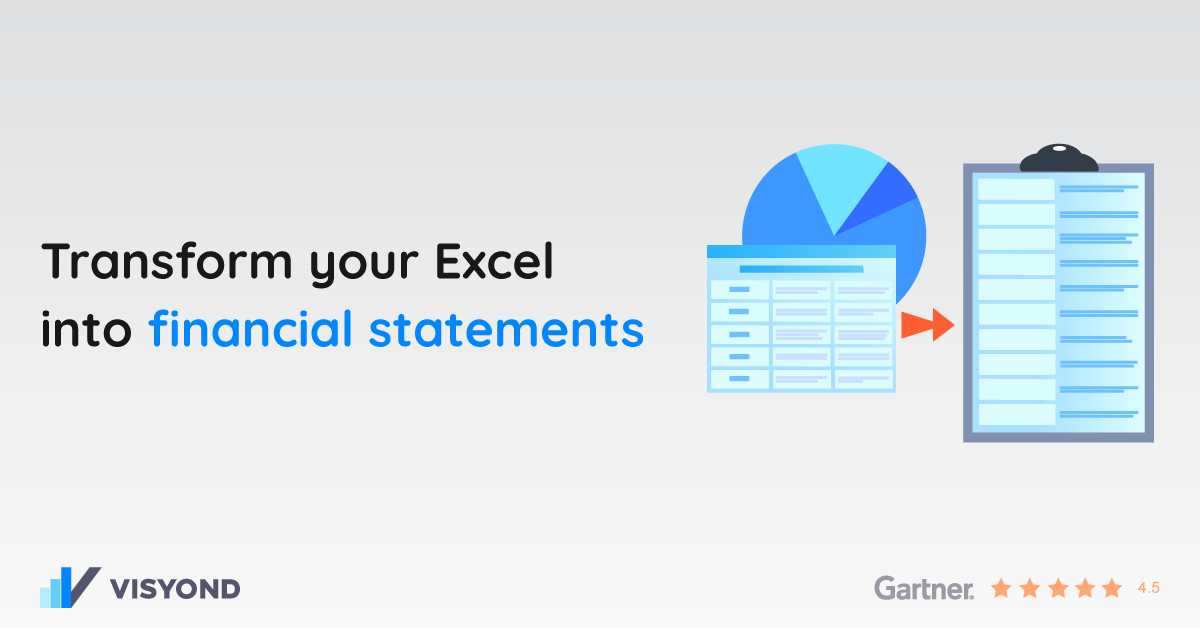
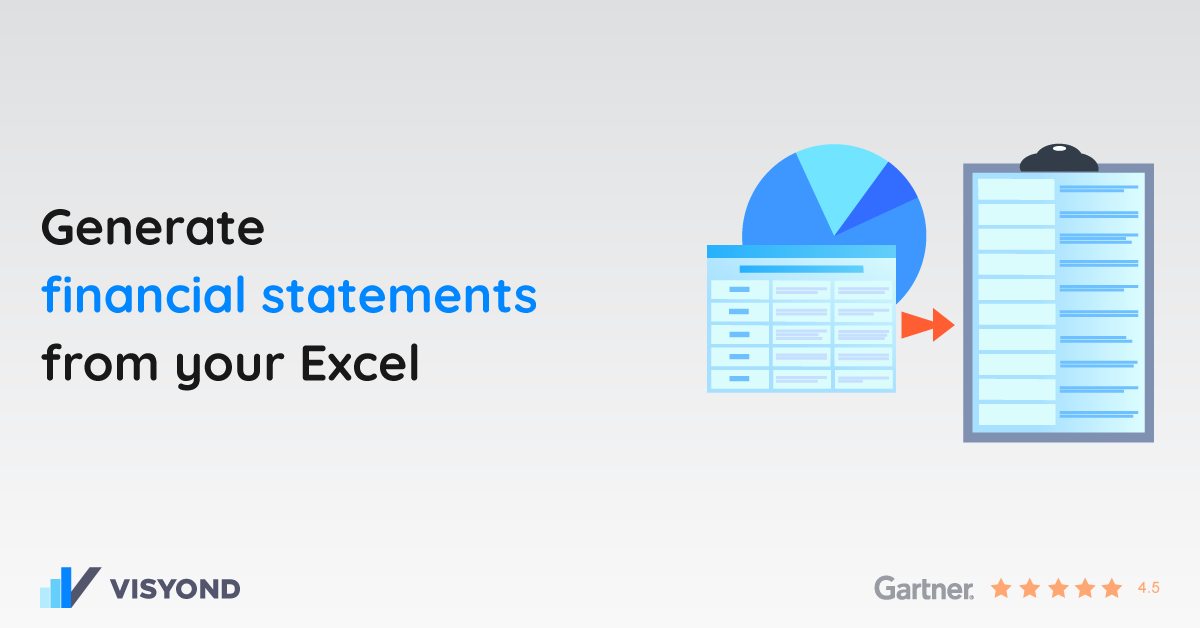
use cases / solutions upd after review

Changed region(s): [[0.0308, 0.3328, 0.555, 0.6354]]

diff --git a/site/layouts/partials/utility/scripts-footer.html b/site/layouts/partials/utility/scripts-footer.html
@@ -1,7 +1,7 @@
 <script src="https://cdnjs.cloudflare.com/ajax/libs/jquery/3.2.1/jquery.min.js"></script>
 <script src="https://cdnjs.cloudflare.com/ajax/libs/slick-carousel/1.8.1/slick.min.js"></script>
-<script src="/plugin.js?v=1.1"></script>
-<script src="/custom.js?v=1.1"></script>
+<script src="/plugin.js?v=1.2"></script>
+<script src="/custom.js?v=1.2"></script>
 
 <!-- Start of HubSpot Embed Code -->
 <script type="text/javascript" id="hs-script-loader" async defer src="//js-na1.hs-scripts.com/3409378.js"></script>

diff --git a/site/layouts/partials/default/navigation.html b/site/layouts/partials/default/navigation.html
@@ -1,7 +1,7 @@
 <nav class="hexNav">
     <ul class="hexNav__list">
         <li class="hexNav__item">
-            <a href="#solutions-toggle" class="hexNav__link"><span>Use-cases</span></a>
+            <a href="#solutions-toggle" class="hexNav__link"><span>Use cases</span></a>
             {{ with .Site.GetPage "section" "navigation" }}
                 <div class="dropdown-menu-wrap">
                     <div id="solutions-toggle" class="dropdown-toggle dropdown-toggle--multicol">

diff --git a/site/layouts/partials/default/header.html b/site/layouts/partials/default/header.html
@@ -6,7 +6,7 @@
         <meta name="viewport" content="width=device-width, initial-scale=1">
 
         <link href="https://fonts.googleapis.com/icon?family=Material+Icons|Material+Icons+Outlined" rel="stylesheet">
-        <link href="/css/main.css?v=1.2" rel="stylesheet">
+        <link href="/css/main.css?v=1.3" rel="stylesheet">
         <link rel="icon" type="image/png" href="/logo.png" /> 
         <!-- <link rel="icon" type="image/x-icon" href="/favicon.ico"> -->
         

diff --git a/site/content/solutions/interactive-what-if-dashboards.md b/site/content/solutions/interactive-what-if-dashboards.md
@@ -37,6 +37,13 @@ productTourBlocks:
   - block:
     - learnMore:
       descr: >-
+        Focus on what’s important, reduce information overload, and share only specific parts of the model with people. For example, predictive dashboards for decision-makers or data entry worksheets for contributors.
+      video: /video/Decide Who Sees and Interacts with Specific Worksheets and Dashboards - Visyond.mp4
+      videoPoster: /video/grid_face_thumbnail.jpg
+      title: Show people only what matters to them
+
+    - learnMore:
+      descr: >-
         Adapt dashboards to your teammates’ needs and empower them to get insights from the central model without collaboration chaos or interfering with each other.
       video: /video/Share Insights with Spreadsheet-driven Dashboards - Visyond.mp4
       videoPoster: /video/grid_thumbnail.jpg
@@ -44,7 +51,7 @@ productTourBlocks:
 
     - learnMore:
       descr: >-
-        Use the familiar syntax of Excel — including dynamic arrays and XLOOKUPs — and quickly create interactive visualizations and online calculators for your team.
+        Use the familiar syntax and formulas of Excel and quickly create interactive visualizations and online calculators for your team.
       video: '/video/Create, Compare and Analyze Scenarios On-the-fly - Visyond.mp4'
       videoPoster: '/video/grid_thumbnail.jpg'
       title: 'Keep the flexibility of a spreadsheet'
@@ -55,13 +62,6 @@ productTourBlocks:
       video: /video/Share Insights with Spreadsheet-driven Dashboards - Visyond.mp4
       videoPoster: /video/grid_thumbnail.jpg
       title: Keep the ‘value-formula’ connection
-
-    - learnMore:
-      descr: >-
-        Focus on what’s important, reduce information overload, and share only specific parts of the model with people. For example, predictive dashboards for decision-makers or data entry worksheets for contributors.
-      video: /video/Decide Who Sees and Interacts with Specific Worksheets and Dashboards - Visyond.mp4
-      videoPoster: /video/grid_face_thumbnail.jpg
-      title: Show people only what matters to them
  
     - learnMore:
       descr: >-

diff --git a/site/content/solutions/financial-statement-generator.md b/site/content/solutions/financial-statement-generator.md
@@ -3,8 +3,8 @@ aliases:
   - /features/financial-statements/
   - /features/financial-statement-generator/
 metaTags: >-
-  <meta property="og:title" content="Transform your Excel into financial statements">
-  <meta name="title" content="Transform your Excel into financial statements">
+  <meta property="og:title" content="Generate financial statements from your Excel">
+  <meta name="title" content="Generate financial statements from your Excel">
 
   <meta property="og:description" content="Expand your planning and forecasting by visualizing spreadsheet models as scenario-driven financial statements: Balance Sheet, Income Statement, and Cash Flow Statement.">
   <meta name="description" content="Expand your planning and forecasting by visualizing spreadsheet models as scenario-driven financial statements: Balance Sheet, Income Statement, and Cash Flow Statement.">
@@ -19,7 +19,7 @@ metaTags: >-
 
 title: Transform your Excel into financial statements
 topTitle: >-
-  Transform your Excel into <span>financial statements</span>
+  Generate <span>financial statements</span> from your Excel
 topSubTitle: >-
    Expand your planning and forecasting by visualizing spreadsheet models as scenario-driven financial statements: Balance Sheet, Income Statement, and Cash Flow Statement.
 topVideoThumbnail: /video/Auto-generate Financial Statements Driven by Your Model - Visyond.jpg
@@ -42,7 +42,7 @@ productTourBlocks:
         Explore how the financial statements change depending on scenarios and forecasts that you and your team contribute to the central model.
       video: /video/Create, Compare and Analyze Scenarios On-the-fly - Visyond.mp4
       videoPoster: /video/grid_face_thumbnail.jpg
-      title: Visualize impact of scenarios
+      title: Visualize the impact of scenarios
 
     - learnMore:
       descr: >-

diff --git a/site/content/solutions/financial-modeling-software.md b/site/content/solutions/financial-modeling-software.md
@@ -21,7 +21,7 @@ metaTags: >-
 
 title: Financial modeling software
 topTitle: >-
-  Get superpowers with an Excel-like <span>financial modeling</span> software
+  Understand your data with an Excel-like <span>financial modeling</span> software
 topSubTitle: >-
   Improve every aspect of decision-making — from building and auditing the model, to collecting data and managing scenarios, to analyzing sensitivities and risks, to sharing insights with stakeholders.
 topVideoThumbnail:
@@ -33,7 +33,7 @@ productTourBlocks:
   - block:
     - learnMore:
       descr: >-
-        Use the familiar syntax of Excel — including dynamic arrays and XLOOKUPs — and quickly analyze the model, its scenarios, and create interactive visualizations for your team.
+        Use the familiar syntax and formulas of Excel and quickly analyze the model, its scenarios, and create interactive visualizations for your team.
       video: '/video/Create, Compare and Analyze Scenarios On-the-fly - Visyond.mp4'
       videoPoster: '/video/grid_thumbnail.jpg'
       title: 'Keep the flexibility of a spreadsheet'

diff --git a/site/content/solutions/spreadsheet-calculators-web-apps.md b/site/content/solutions/spreadsheet-calculators-web-apps.md
@@ -38,7 +38,7 @@ productTourBlocks:
 
     - learnMore:
       descr: >-
-        Use the familiar syntax of Excel — including dynamic arrays and XLOOKUPs — and quickly create interactive visualizations and online calculators for your team.
+        Use the familiar syntax and formulas of Excel and quickly create interactive visualizations and online calculators for your team.
       video: '/video/Create, Compare and Analyze Scenarios On-the-fly - Visyond.mp4'
       videoPoster: '/video/grid_thumbnail.jpg'
       title: 'Keep the flexibility of a spreadsheet'
@@ -66,6 +66,6 @@ productTourBlocks:
 
     blockTitle: Bring your numbers to life
     blockDesc: >-
-      Visualize spreadsheets as interactive online calculators for testing scenarios, answering 'what-if' questions on the spot, or presenting the value of your offering to clients and prospects.
+      Visualize spreadsheets as interactive online calculators for testing scenarios, answering 'what-if' questions on the spot, or presenting the value of your offering to your customers.
 ---
 

diff --git a/site/content/_index.md b/site/content/_index.md
@@ -37,7 +37,7 @@ productTourBlocks:
   - block:
     - learnMore:
       descr: >-
-        Use the familiar syntax of Excel — including dynamic arrays and XLOOKUPs — and quickly analyze the model, its scenarios, and create interactive visualizations for your team.
+        Use the familiar syntax and formulas of Excel and quickly analyze the model, its scenarios, and create interactive visualizations for your team.
       video: '/video/Create, Compare and Analyze Scenarios On-the-fly - Visyond.mp4'
       videoPoster: '/video/grid_thumbnail.jpg'
       title: 'Keep the flexibility of a spreadsheet'

diff --git a/site/content/solutions/revenue-optimization-cost-reduction.md b/site/content/solutions/revenue-optimization-cost-reduction.md
@@ -51,7 +51,7 @@ productTourBlocks:
       
     - learnMore:
       descr: >-
-        Use the familiar syntax of Excel — including dynamic arrays and XLOOKUPs — and quickly analyze the model, its scenarios, and create interactive visualizations for your team.
+        Use the familiar syntax and formulas of Excel and quickly analyze the model, its scenarios, and create interactive visualizations for your team.
       video: '/video/Create, Compare and Analyze Scenarios On-the-fly - Visyond.mp4'
       videoPoster: '/video/grid_thumbnail.jpg'
       title: 'Keep the flexibility of a spreadsheet'

diff --git a/site/content/solutions/what-if-analysis.md b/site/content/solutions/what-if-analysis.md
@@ -70,7 +70,7 @@ productTourBlocks:
 
     - learnMore:
       descr: >-
-        Use the familiar syntax of Excel — including dynamic arrays and XLOOKUPs — and quickly analyze the model, its scenarios, and create interactive visualizations for your team.
+        Use the familiar syntax and formulas of Excel and quickly analyze the model, its scenarios, and create interactive visualizations for your team.
       video: '/video/Create, Compare and Analyze Scenarios On-the-fly - Visyond.mp4'
       videoPoster: '/video/grid_thumbnail.jpg'
       title: 'Keep the flexibility of a spreadsheet'      

diff --git a/site/content/solutions/monte-carlo-simulation-software.md b/site/content/solutions/monte-carlo-simulation-software.md
@@ -65,7 +65,7 @@ productTourBlocks:
 
     - learnMore:
       descr: >-
-        Use the familiar syntax of Excel — including dynamic arrays and XLOOKUPs — and quickly analyze the model, its scenarios, and create interactive visualizations for your team.
+        Use the familiar syntax and formulas of Excel and quickly analyze the model, its scenarios, and create interactive visualizations for your team.
       video: '/video/Create, Compare and Analyze Scenarios On-the-fly - Visyond.mp4'
       videoPoster: '/video/grid_thumbnail.jpg'
       title: 'Keep the flexibility of a spreadsheet'

diff --git a/site/content/solutions/planning-budgeting-forecasting-software.md b/site/content/solutions/planning-budgeting-forecasting-software.md
@@ -60,7 +60,7 @@ productTourBlocks:
 
     - learnMore:
       descr: >-
-        Use the familiar syntax of Excel — including dynamic arrays and XLOOKUPs — and quickly analyze the model, its scenarios, and create interactive visualizations for your team.
+        Use the familiar syntax and formulas of Excel and quickly analyze the model, its scenarios, and create interactive visualizations for your team.
       video: '/video/Create, Compare and Analyze Scenarios On-the-fly - Visyond.mp4'
       videoPoster: '/video/grid_thumbnail.jpg'
       title: 'Keep the flexibility of a spreadsheet'
